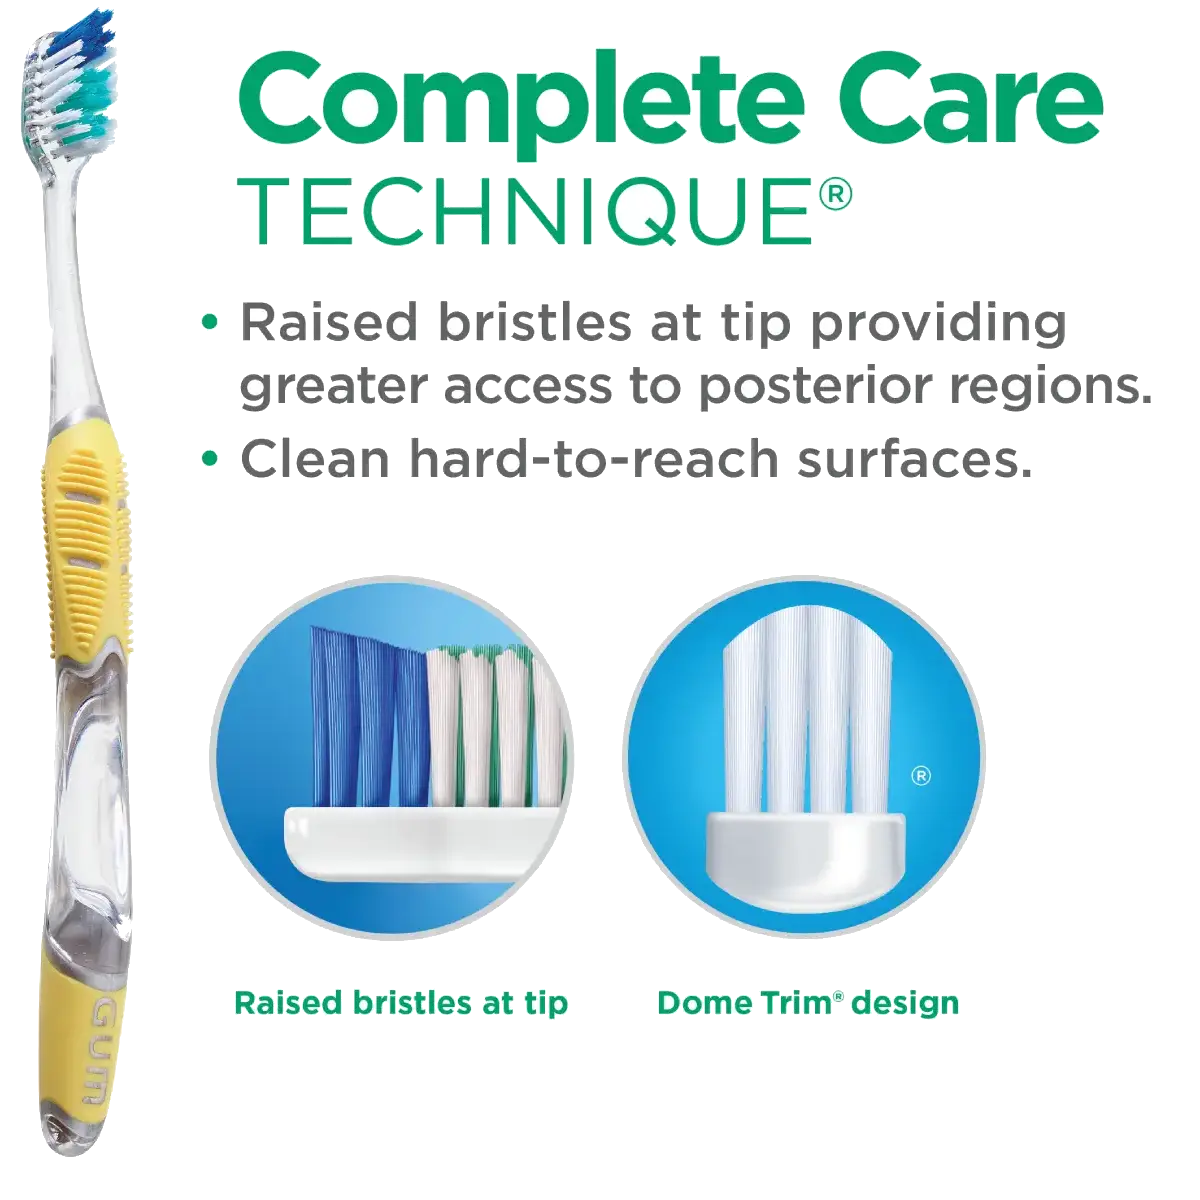
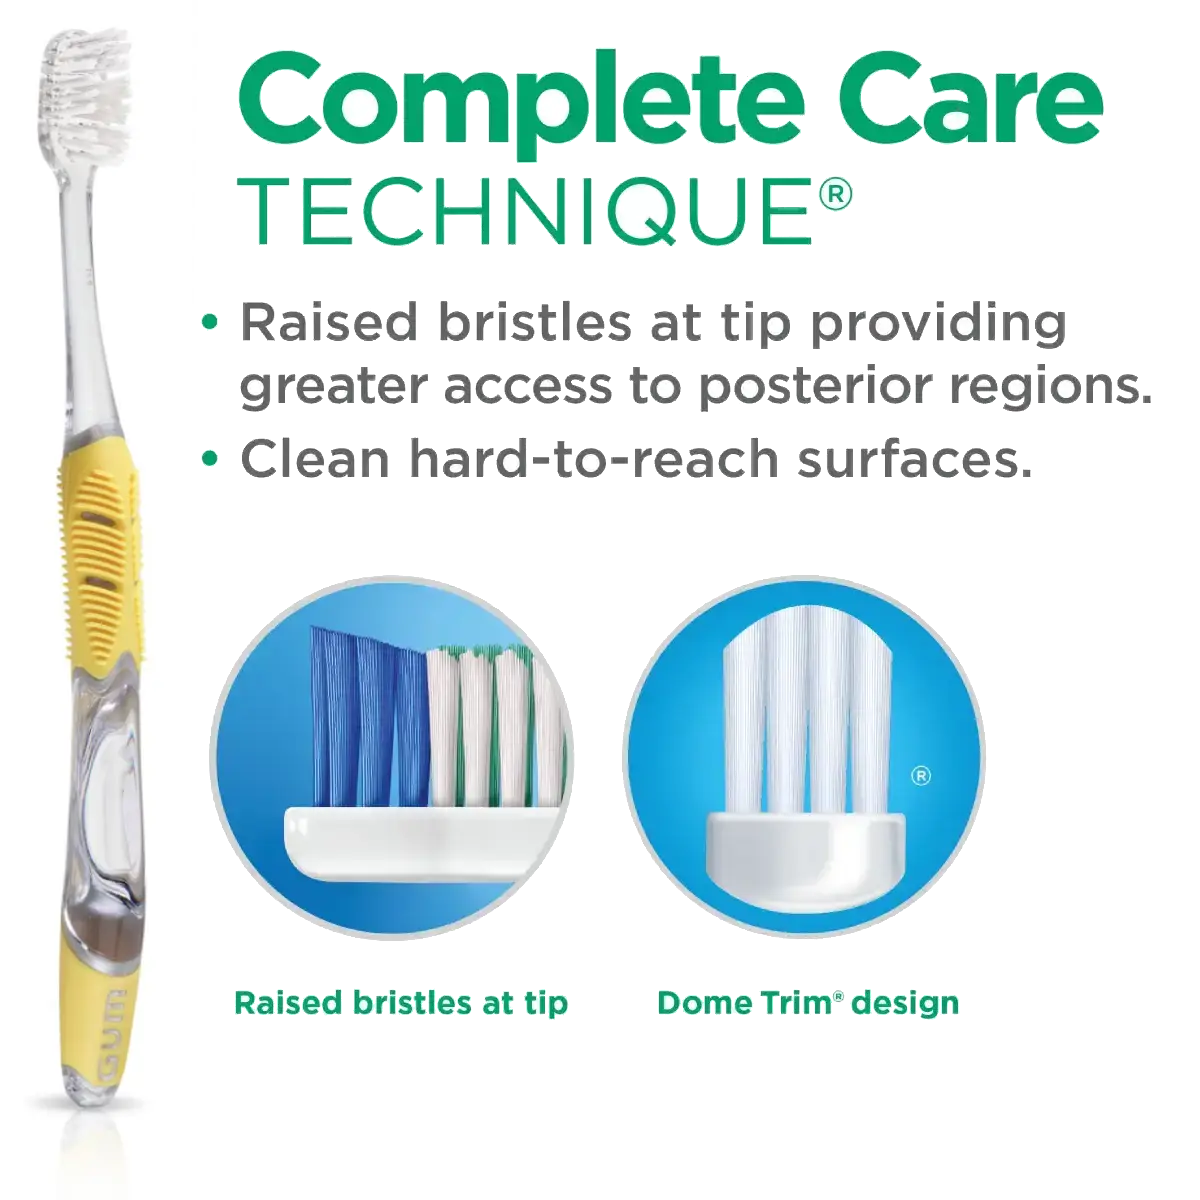
several updates and asset replacements

Changed region(s): [[0.0, 0.0, 0.1233, 0.9867]]

diff --git a/src/routes/Btc/Floss/Floss.tsx b/src/routes/Btc/Floss/Floss.tsx
@@ -131,7 +131,7 @@ export default function BtcFloss() {
                 <S.SlideColumn2>
                     <S.ImgWrapper $width={"100%"}><img src={Slide2Floss2}/></S.ImgWrapper>
                     <S.ColumnTitle>Pro-Weave® Dental Floss</S.ColumnTitle>
-                        <small>(formerly known as EEZ-THRU)®</small> 
+                        <small>(formerly known as BUTTLERWEAVE)®</small> 
                         <S.ListContainer>
                             <ul>
                                 <li>Removes <span>2x more plaque</span><sup>1</sup></li>

diff --git a/src/routes/Toothbrush/ToothbrushAdult/ToothbrushAdult.tsx b/src/routes/Toothbrush/ToothbrushAdult/ToothbrushAdult.tsx
@@ -2,7 +2,7 @@ import * as S from "./ToothbrushAdult.styles";
 
 import FlickityCarousel from "../../../components/FlickityCarousel/FlickityCarousel";
 
-import Slide1 from "../../../assets/toothbrush/Adult/AdultSlide1.webp";
+import Slide1 from "../../../assets/toothbrush/Adult/AdultSlide1(2).webp";
 import Slide2 from "../../../assets/toothbrush/Adult/AdultSlide2.webp";
 import Slide3 from "../../../assets/toothbrush/Adult/AdultSlide3.webp";
 import Slide4 from "../../../assets/toothbrush/Adult/AdultSlide4.webp";

diff --git a/src/routes/Btc/IDBrushes/IDBrushes.styles.ts b/src/routes/Btc/IDBrushes/IDBrushes.styles.ts
@@ -48,9 +48,6 @@ export const InfoGridRow = styled.div`
     display: contents;
     line-height: 0.6;
 
-    @media screen and (min-width: 2300px) {
-        line-height: 0.8;
-    }
 `;
 
 export const InfoGridRow2 = styled.div`
@@ -317,7 +314,7 @@ export const InfoGrid =  styled.div`
 
     font-family: "Gotham", sans-serif;
     padding-top: 0.8rem;
-    font-size: clamp(14px, 1vw, 1.4rem);
+    font-size: clamp(12px, 1vw, 1.4rem);
     color: #666666;
 `;
 

diff --git a/src/utils/patientRecommendations.ts b/src/utils/patientRecommendations.ts
@@ -16,7 +16,7 @@ export const recommendations: Record<CombinationKey, RecommendationSet> = {
   'E1:Mot': {
     priority1: { product: 'String Floss', code: '1815' },
     priority2: { product: 'Flossers: Pro Clean®', code: '891' },
-    priority3: { product: '', code: '' } 
+    priority3: { product: 'Soft-Picks®', code: '650' }
   },
   'E1:Mot:Perio': {
     priority1: { product: 'String Floss', code: '2030' },

diff --git a/src/routes/Btc/Btc.tsx b/src/routes/Btc/Btc.tsx
@@ -43,7 +43,7 @@ export default function Toothbrush() {
               </S.IntroTitleWrapper>
               <S.RecommendedWrapper>
                 <S.Recommended src={Col1Row2}/>
-                <h3>Recommended<br/> By Canadian<br/> Dental Hygeinists</h3>
+                <h3>Recommended<br/> By Canadian<br/> Dental Hygienists</h3>
               </S.RecommendedWrapper>
 
               <S.LinksWrapper>

diff --git a/src/routes/Toothbrush/Toothbrush.tsx b/src/routes/Toothbrush/Toothbrush.tsx
@@ -40,7 +40,7 @@ export default function Toothbrush() {
               </S.IntroTitleWrapper>
               <S.RecommendedWrapper>
                 <S.Recommended src={Col1Row2}/>
-                <h3>Recommended<br/> By Canadian<br/> Dental Hygeinists</h3>
+                <h3>Recommended<br/> By Canadian<br/> Dental Hygienists</h3>
               </S.RecommendedWrapper>
 
               <S.LinksWrapper>

diff --git a/src/routes/OralSystemic/OralSystemic.styles.ts b/src/routes/OralSystemic/OralSystemic.styles.ts
@@ -97,7 +97,7 @@ export const CarouselSlide = styled.div`
   display: flex;
   align-items: center;
   justify-content: flex-start;
-  padding: 2rem 4rem;
+  padding: 2rem;
 
   @media screen and (max-width: 1080px) {
     padding: 2rem;
